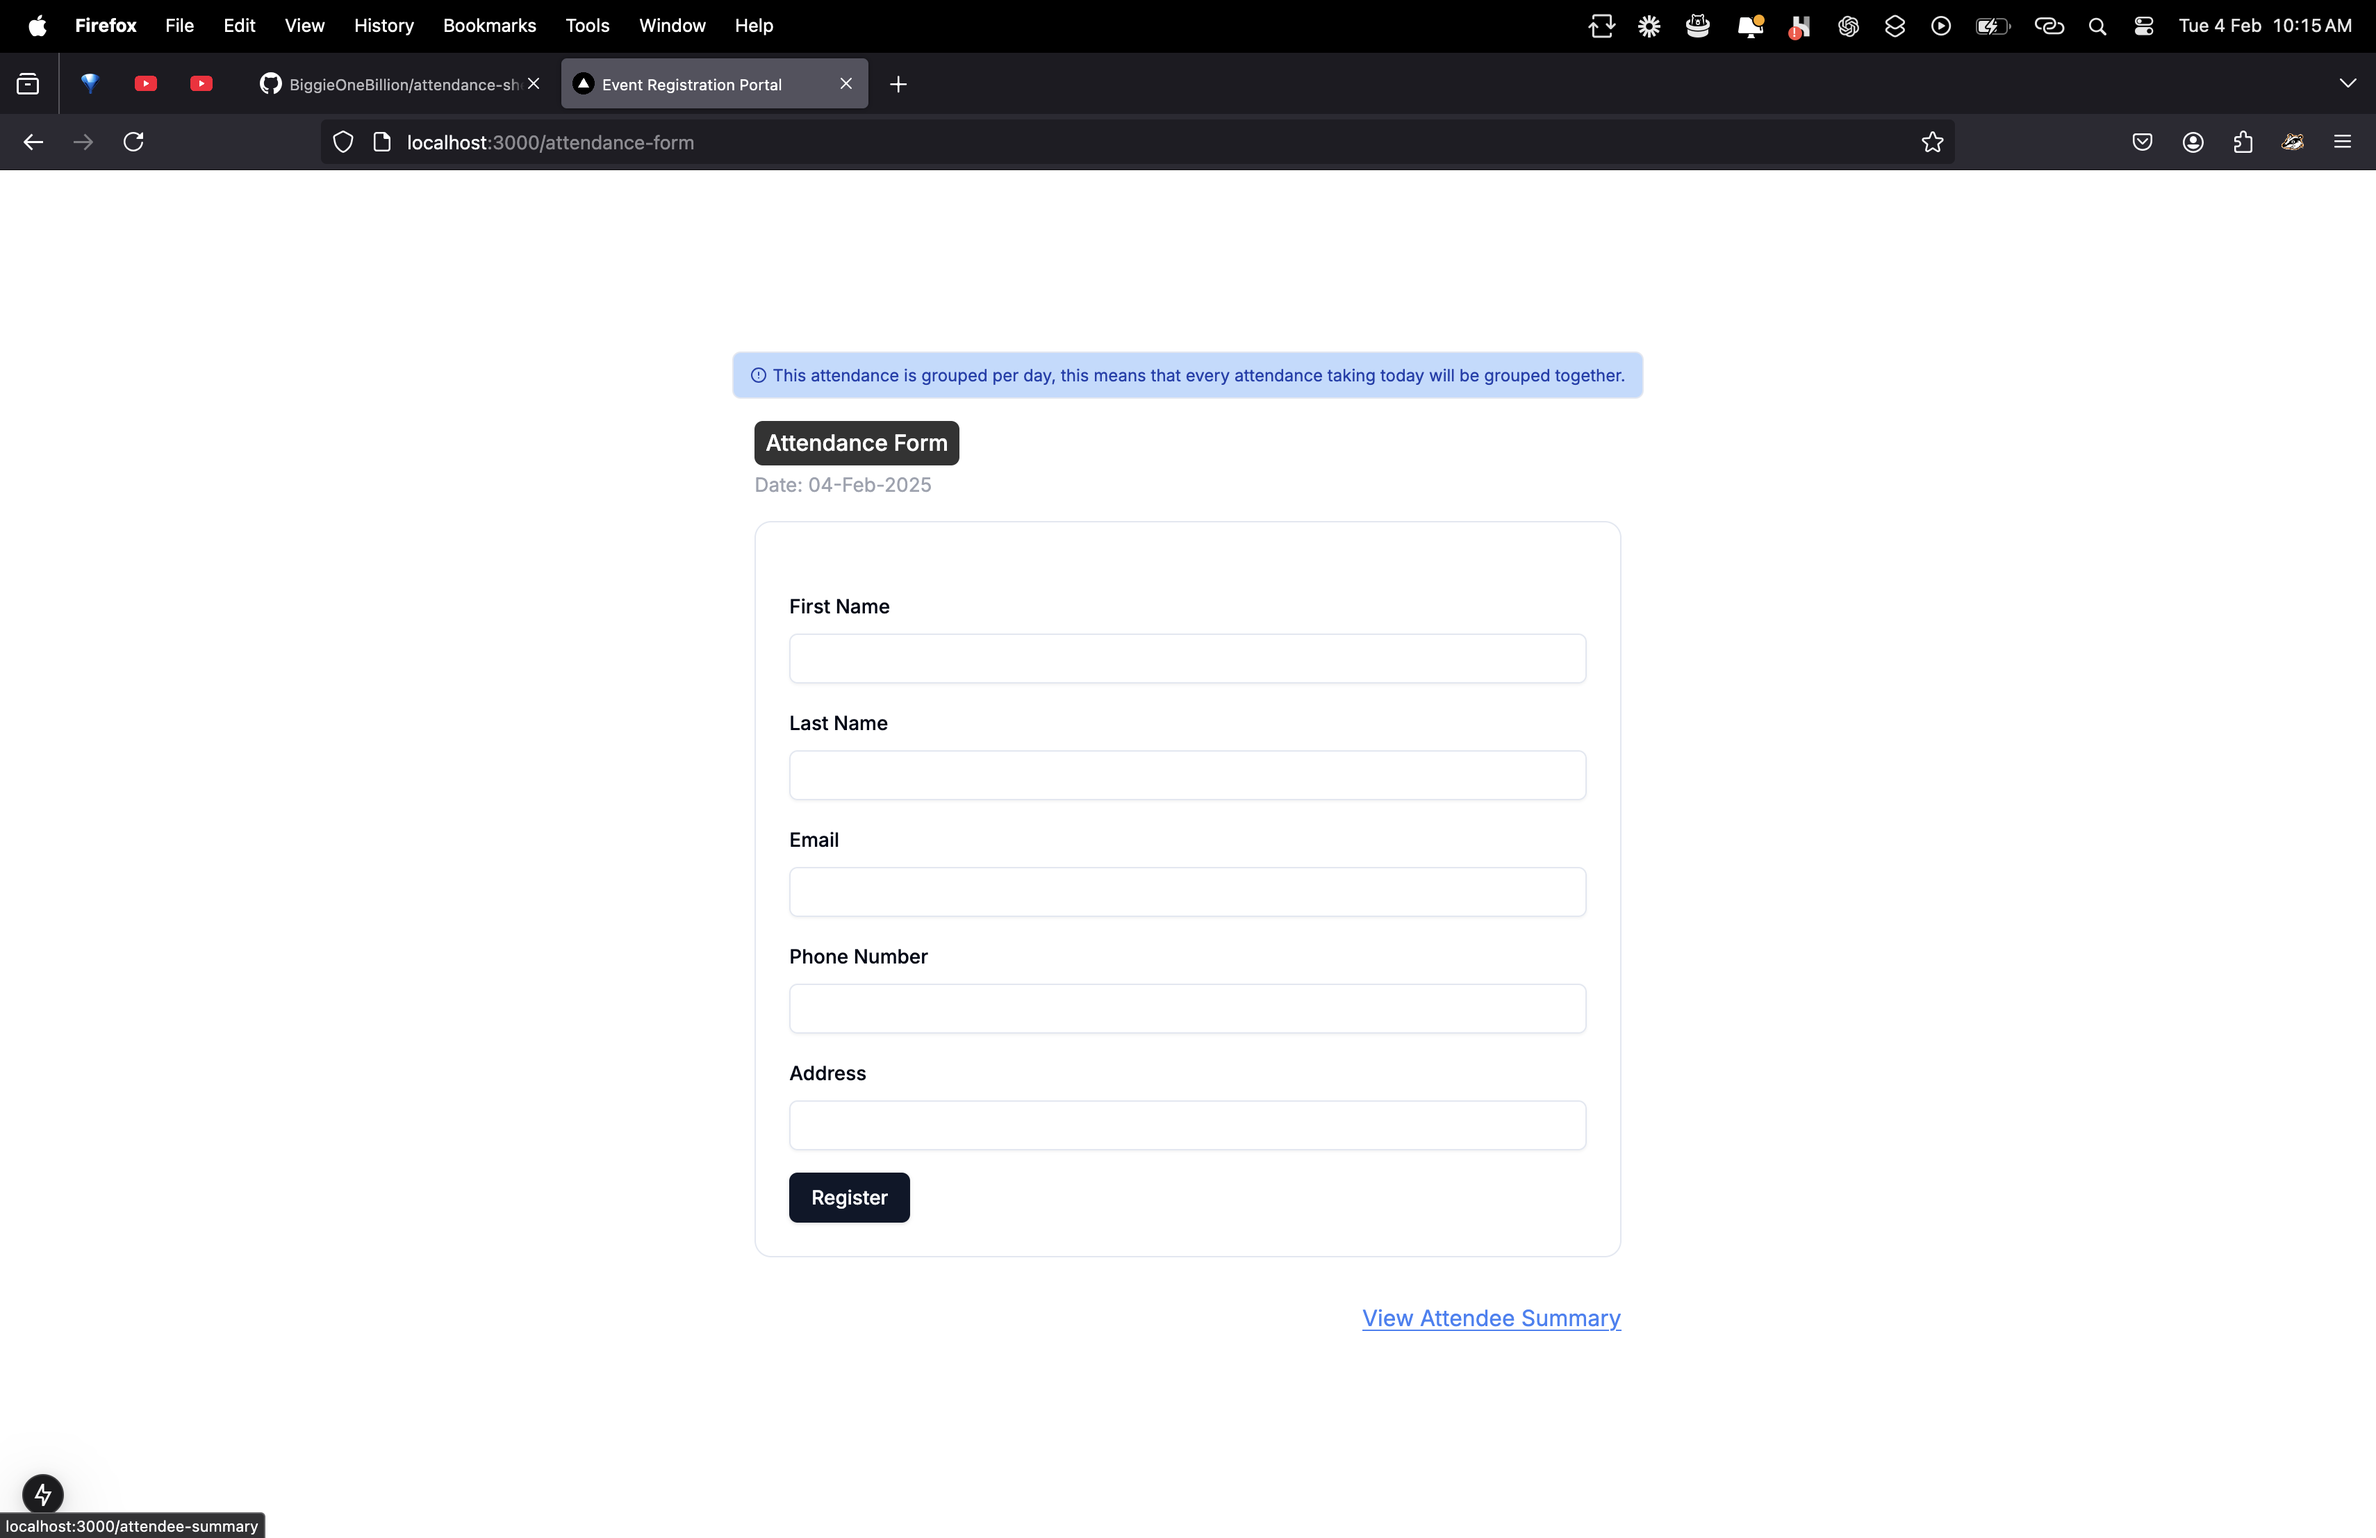
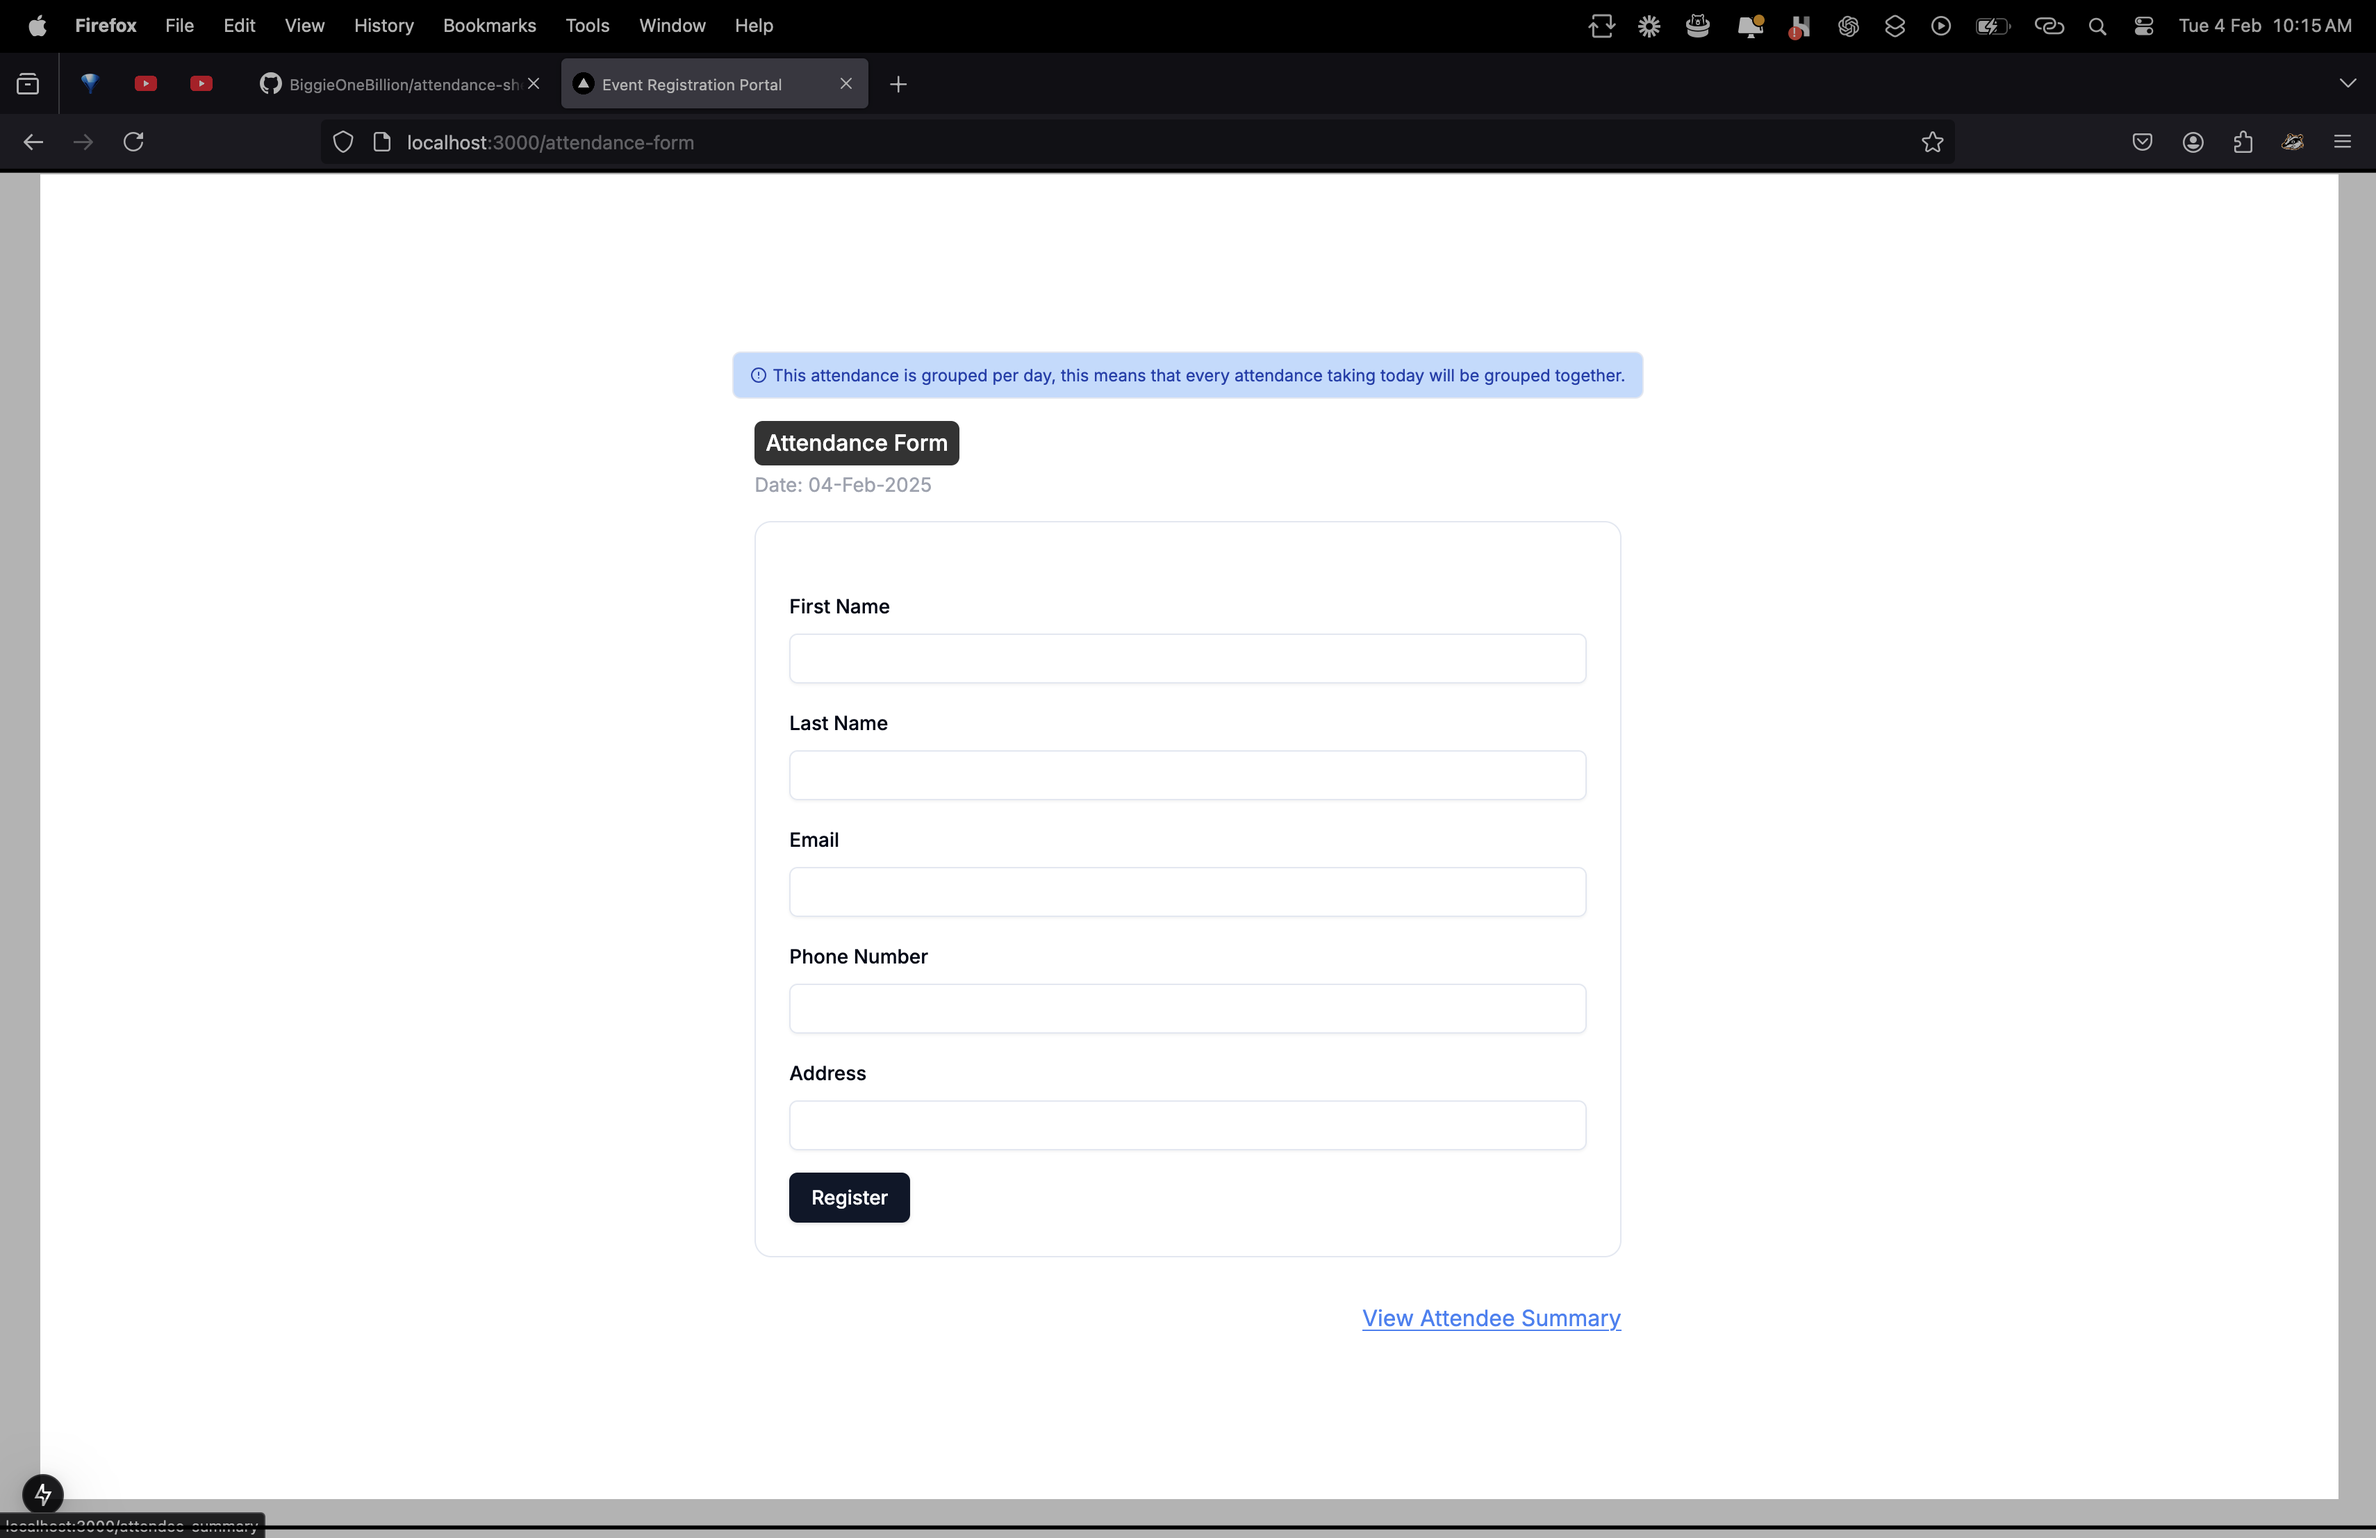
added screenshots and updated readme.md

diff --git a/README.md b/README.md
@@ -11,7 +11,7 @@ This is a simple straight forward application where you can enter the details of
 ![App Screenshot](/public/ss1.png)
 ![App Screenshot](/public/ss2.png)
 ![App Screenshot](/public/ss3.png)
-![App Screenshot](/public/ss4.png)
+![App Screenshot](/public/ss5.png)
 
 
 ## Tech Stack
